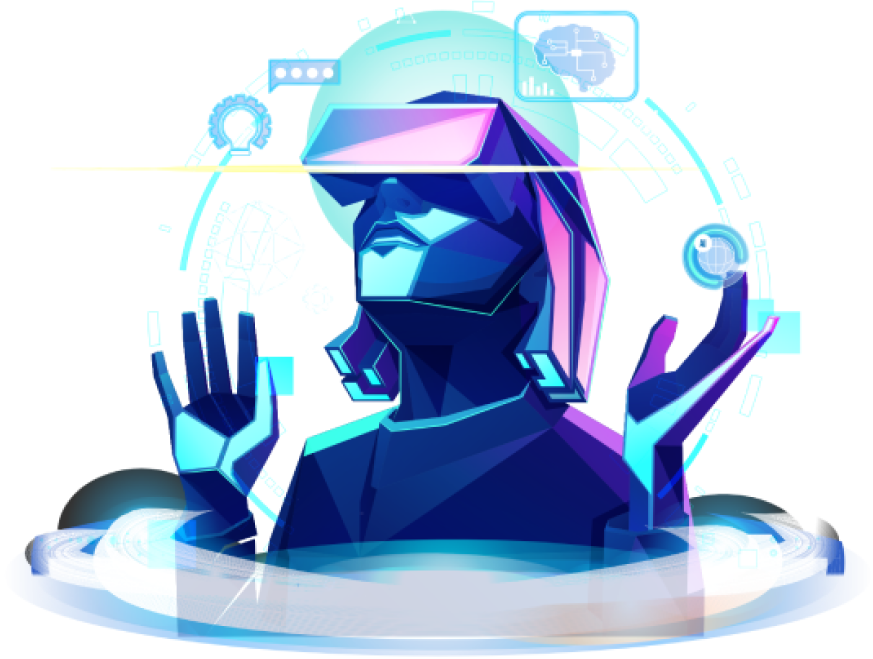
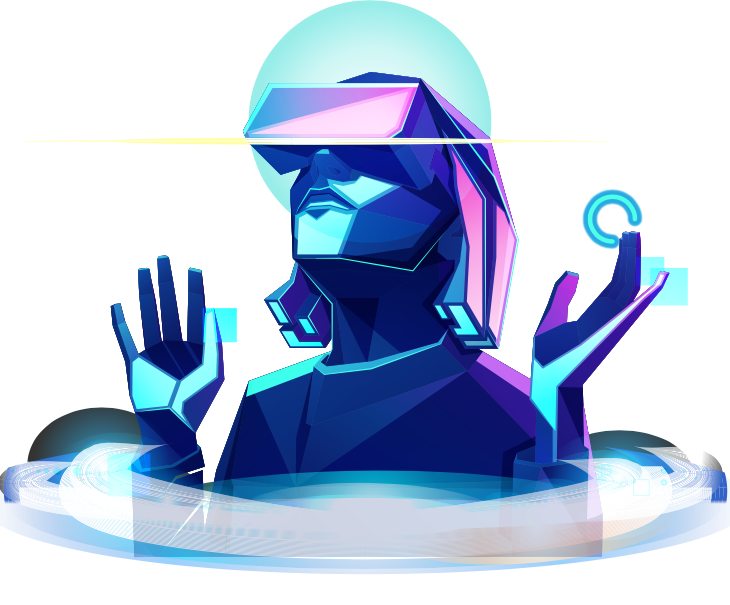
animate hero

diff --git a/index.html b/index.html
@@ -66,12 +66,22 @@
   <section id="hero" class="d-flex align-items-center justify-content-center">
     <div class="container">
 
-      <div class="d-flex flex-column align-items-center">
+      <div class="row justify-content-center">
+        <div class="col-6">
           <img src="assets/img/hero/logo-bi.png" width="200" class="img-fluid mb-3" alt="">
+          <br>
           <img src="assets/img/hero/logo-fekdi-x.png" width="300" class="img-fluid mb-3" alt="">
-          <img src="assets/img/hero/hero-hackathon.png" width="600" class="img-fluid" alt="" data-aos="zoom-in"
-            data-aos-delay="100">
-          <img src="assets/img/hero/hero-vr.png" width="600" class="img-fluid" alt="" data-aos="fade-up" data-aos-delay="800">
+          <br>
+          <img src="assets/img/hero/hero-hackathon.png" width="600" class="img-fluid" alt="" data-aos="zoom-in" data-aos-delay="100">
+          <div class="hero-vr d-flex align-items-center justify-content-center" data-aos="fade-up" data-aos-delay="800">
+            <img src="assets/img/hero/hero-vr.png" width="600" class="hero-vr-human" alt="">
+            <img src="assets/img/hero/component/bg.png" width="400" class="hero-vr-bg" alt="">
+            <img src="assets/img/hero/component/1.png" width="70" class="hero-component" alt="">
+            <img src="assets/img/hero/component/2.png" width="70" class="hero-component2" alt="">
+            <img src="assets/img/hero/component/3.png" width="100" class="hero-component3" alt="">
+            <img src="assets/img/hero/component/4.png" width="70" class="hero-component4" alt="">
+          </div>
+        </div>
       </div>
     </div>
   </section><!-- End Hero -->
@@ -81,17 +91,18 @@
     <!-- ======= About Section ======= -->
     <section id="" class="about">
       <div class="container" data-aos="fade-up">
-        <div class="section-title pb-2">
+        <div class="section-title pb-2 ms-2">
           <p>Announcement</p>
         </div>
         <div data-aos="fade-right" data-aos-delay="100">
           <div class="content section-content">
             <h3 class="fst-italic">
-              Announcement 1
+              Kick off dan Seminar Hackathon - 24 April 2024
             </h3>
             <p>
-              Lorem ipsum dolor sit amet, consectetur adipisicing elit. Quae aut ipsa in itaque eum voluptas earum, magnam consequatur sit voluptate vel ut molestiae incidunt delectus fuga illum veniam unde? Nisi!
+              Daftarkan dirimu menjadi bagian dari Kickoff dan Seminar Hackathon 2024
             </p>
+            <a href="#">Daftar Sekarang!</a>
           </div>
         </div>
       </div>

diff --git a/assets/css/style.css b/assets/css/style.css
@@ -448,12 +448,56 @@ h6 {
   width: 100%;
   min-height: 100vh;
   position: relative;
+  background-image: url("../img/bg/line-wave.png");
+  background-position: bottom;
+  background-size: 100% auto;
+  background-repeat: no-repeat;
 }
 
 #hero .container {
   position: relative;
   padding-top: 74px;
   text-align: center;
+}
+
+#hero .hero-vr{
+  position: relative;
+}
+
+#hero .hero-vr-human{
+  text-align: center;
+}
+
+#hero .hero-vr-bg{
+  position: absolute;
+  top: 50%;
+  left: 50%;
+  animation: animate-circle 60s linear infinite;
+}
+
+#hero .hero-component{
+  position: absolute;
+  top: 140px;
+  left: 140px;
+  animation: animate-topdown 5s alternate linear infinite;
+}
+#hero .hero-component2{
+  position: absolute;
+  top: 40px;
+  left: 100px;
+  animation: animate-topdown 2s alternate linear infinite;
+}
+#hero .hero-component3{
+  position: absolute;
+  top: 10px;
+  left: 50%;
+  animation: animate-topdown 3s alternate linear infinite;
+}
+#hero .hero-component4{
+  position: absolute;
+  top: 70px;
+  right: 70px;
+  animation: animate-topdown 7s alternate linear infinite;
 }
 
 #hero h1 {
@@ -851,7 +895,7 @@ section {
   margin: 0 10px -6px 0;
   border: 3px solid #18d26e;
   border-top-color: #eee;
-  animation: animate-loading 1s linear infinite;
+  animation: animate-circle 1s linear infinite;
 }
 
 .register .php-email-form input,
@@ -888,13 +932,23 @@ section {
   background: #ffcd6b;
 }
 
-@keyframes animate-loading {
+@keyframes animate-topdown {
   0% {
-    transform: rotate(0deg);
+    transform: translateY(0);
   }
 
   100% {
-    transform: rotate(360deg);
+    transform: translateY(-30px);
+  }
+}
+
+@keyframes animate-circle {
+  0% {
+    transform: translate(-50%, -50%) rotate(0deg);
+  }
+
+  100% {
+    transform: translate(-50%, -50%) rotate(360deg);
   }
 }
 
